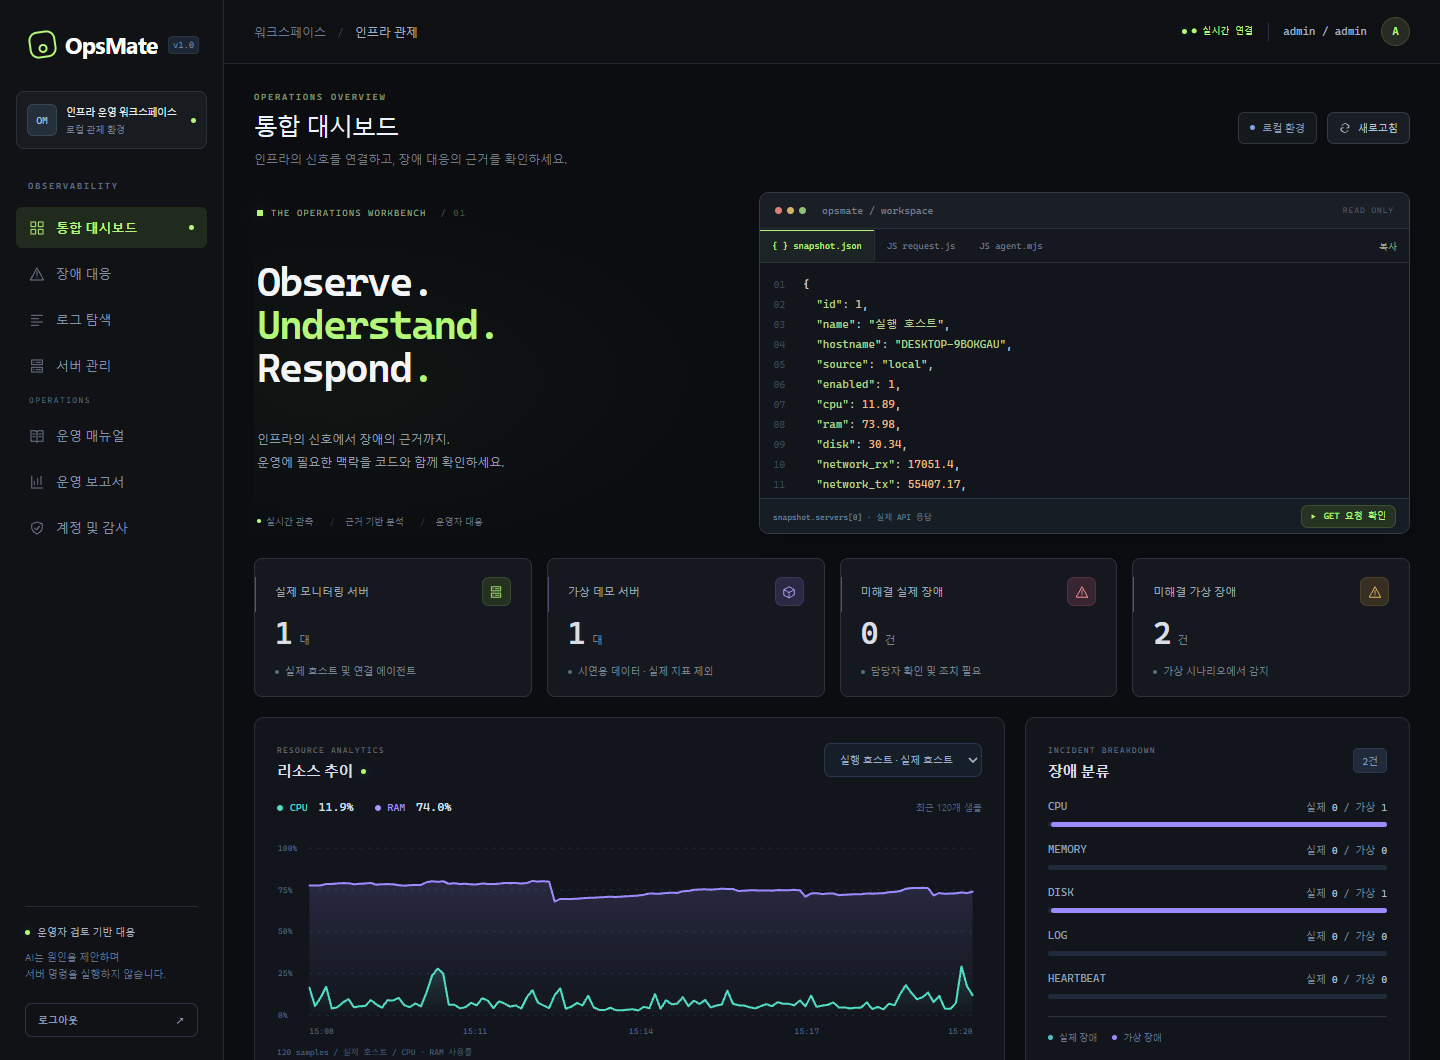
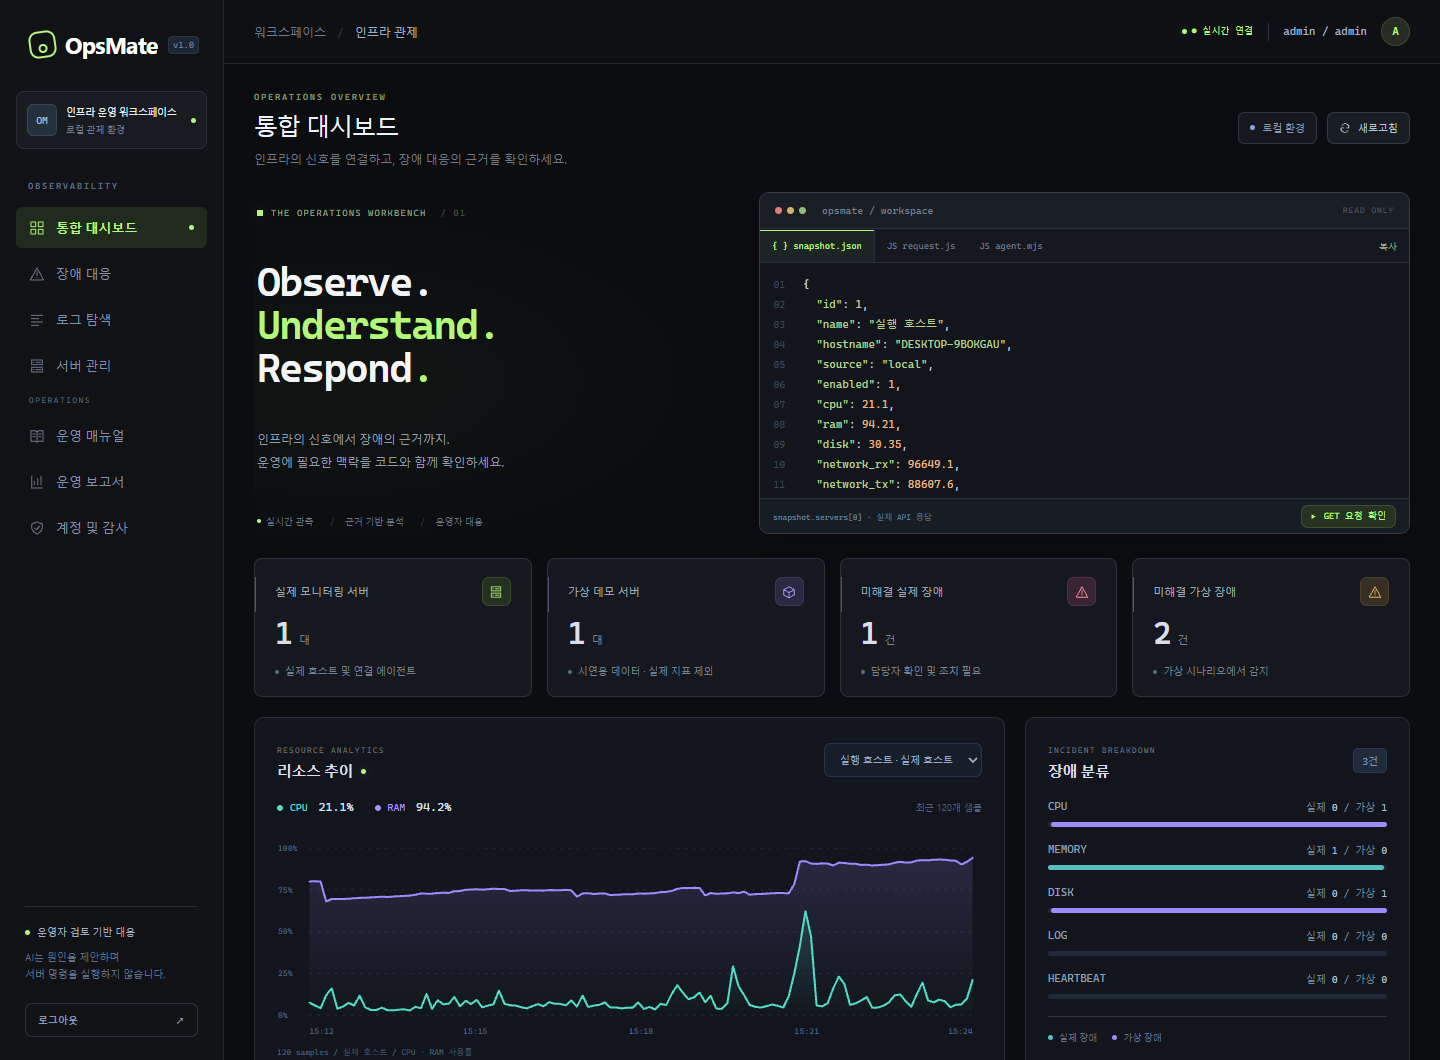
fix: keep event timestamps aligned in compact terminal

diff --git a/public/developer.js b/public/developer.js
@@ -89,7 +89,7 @@ export function updateDeveloperWorkbench(data, transport) {
   const row = document.createElement('div');
   row.className = 'trace-line';
   const entries = [
-    ['trace-time', new Date().toLocaleTimeString('ko-KR', { hour12: false })],
+    ['trace-time', new Date().toLocaleTimeString('en-GB', { hour12: false })],
     ['trace-method', transport],
     ['trace-route', transport === 'WS' ? '/ws → snapshot' : 'GET /api/snapshot'],
     [
